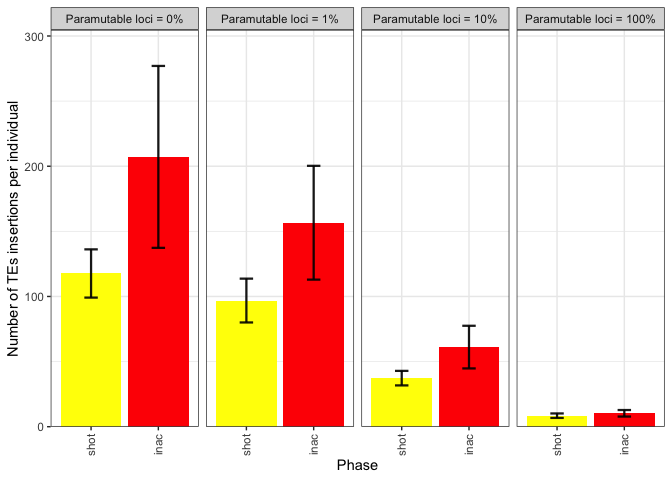
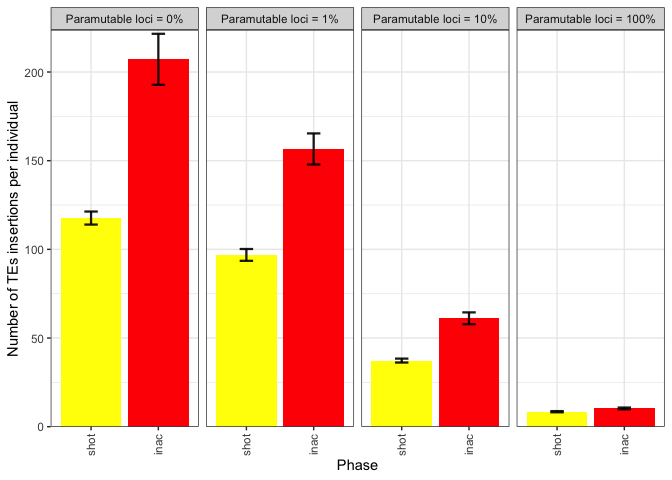
New graphs

diff --git a/Simulation/2022_08_24_Simulation_1_2_Phases.md b/Simulation/2022_08_24_Simulation_1_2_Phases.md
@@ -98,16 +98,35 @@ while (x<nrow(df1)) {
 
 #Summary statistics
 df2<-select (df2,-c(28))
-df_cli<-df2 %>% 
-  group_by(sampleid, phase) %>%
-  summarize(av_fwcli = mean(fwcli), sd_fwcli = sd(fwcli), av_cli = mean(avcli), sd_cli = sd(avcli), cv_cli_percent = sd(avcli)/mean(avcli), av_tes = mean(avtes), sd_tes = sd(avtes), cv_tes_percent = sd(avtes)/mean(avtes))
 
-g <- ggplot(df_cli, aes(x=phase, y=av_fwcli, fill = phase)) + 
+df_count <- df2 %>%
+  count(sampleid, phase)
+
+df_summary <- df2 %>% 
+  group_by(sampleid, phase) %>%
+  summarize(av_fwcli = mean(fwcli), sd_fwcli = sd(fwcli),
+            av_cli = mean(avcli), sd_cli = sd(avcli), cv_cli_percent = sd(avcli)/mean(avcli),
+            av_tes = mean(avtes), sd_tes = sd(avtes), cv_tes_percent = sd(avtes)/mean(avtes),
+            av_par = mean(avpar), sd_par = sd(avpar),
+            av_fwpar_yespi = mean(fwpar_yespi), sd_fwpar_yespi = sd(fwpar_yespi))
+
+df_summary <- cbind(df_count$n, df_summary)
+colnames(df_summary)[1] ="n"
+
+#CI 95%: z* sd/sqrt(population)
+df_summary$ci_fwcli <- qt(0.975,df=df_summary$n-1)*(df_summary$sd_fwcli/sqrt(df_summary$n))
+df_summary$ci_cli <- qt(0.975,df=df_summary$n-1)*(df_summary$sd_cli/sqrt(df_summary$n))
+df_summary$ci_tes <- qt(0.975,df=df_summary$n-1)*(df_summary$sd_tes/sqrt(df_summary$n))
+df_summary$ci_par <- qt(0.975,df=df_summary$n-1)*(df_summary$sd_par/sqrt(df_summary$n))
+df_summary$ci_fwpar_yespi <- qt(0.975,df=df_summary$n-1)*(df_summary$sd_fwpar_yespi/sqrt(df_summary$n))
+
+
+g <- ggplot(df_summary, aes(x=phase, y=av_fwcli, fill = phase)) + 
   geom_bar(stat = "identity") +
-  geom_errorbar( aes(x=phase, ymin=av_fwcli-sd_fwcli, ymax=av_fwcli+sd_fwcli), width=0.2, colour="black", alpha=0.9, size=0.8)+
+  geom_errorbar( aes(x=phase, ymin=av_fwcli-ci_fwcli, ymax=av_fwcli+ci_fwcli), width=0.2, colour="black", alpha=0.9, size=0.8)+
   ylab("Fraction of individuals with a cluster insertion")+
   xlab("Phase")+
-  scale_y_continuous(expand = expansion(mult = c(0, 0.1)))+
+  scale_y_continuous(labels = scales::percent, expand = c(0, 0))+
   scale_fill_manual(values = c("yellow", "red"))+
   theme(legend.position="none", axis.text.x = element_text(angle = 90, vjust = 0.5, hjust=1))+
   facet_wrap(~sampleid, ncol=4, labeller = labeller(sampleid = 
@@ -122,12 +141,12 @@ plot(g)
 ![](2022_08_24_Simulation_1_2_Phases_files/figure-gfm/unnamed-chunk-3-1.png)<!-- -->
 
 ``` r
-g_2 <- ggplot(df_cli, aes(x=phase, y=av_cli, fill = phase)) + 
+g_2 <- ggplot(df_summary, aes(x=phase, y=av_cli, fill = phase)) + 
   geom_bar(stat = "identity") +
-  geom_errorbar( aes(x=phase, ymin=av_cli-sd_cli, ymax=av_cli+sd_cli), width=0.2, colour="black", alpha=0.9, size=0.8)+
+  geom_errorbar( aes(x=phase, ymin=av_cli-ci_cli, ymax=av_cli+ci_cli), width=0.2, colour="black", alpha=0.9, size=0.8)+
   ylab("Number of cluster insertions per individual")+
   xlab("Phase")+
-  scale_y_continuous(expand = expansion(mult = c(0, 0.1)))+
+  scale_y_continuous(expand = c(0, 0))+
   scale_fill_manual(values = c("yellow", "red"))+
   theme(legend.position="none", axis.text.x = element_text(angle = 90, vjust = 0.5, hjust=1))+
   facet_wrap(~sampleid, ncol=4, labeller = labeller(sampleid = 
@@ -142,7 +161,7 @@ plot(g_2)
 ![](2022_08_24_Simulation_1_2_Phases_files/figure-gfm/unnamed-chunk-3-2.png)<!-- -->
 
 ``` r
-g_2_2 <- ggplot(df_cli, aes(x=sampleid, y=cv_cli_percent))+
+g_2_2 <- ggplot(df_summary, aes(x=sampleid, y=cv_cli_percent))+
   geom_point(aes(colour = phase))+
   xlab("Percent of paramutable loci")+
   ylab("Coefficient of variation cluster insertions per individual")+
@@ -155,12 +174,12 @@ plot(g_2_2)
 ![](2022_08_24_Simulation_1_2_Phases_files/figure-gfm/unnamed-chunk-3-3.png)<!-- -->
 
 ``` r
-g_3 <- ggplot(df_cli, aes(x=phase, y=av_tes, fill = phase)) + 
+g_3 <- ggplot(df_summary, aes(x=phase, y=av_tes, fill = phase)) + 
   geom_bar(stat = "identity") +
-  geom_errorbar( aes(x=phase, ymin=av_tes-sd_tes, ymax=av_tes+sd_tes), width=0.2, colour="black", alpha=0.9, size=0.8)+
+  geom_errorbar( aes(x=phase, ymin=av_tes-ci_tes, ymax=av_tes+ci_tes), width=0.2, colour="black", alpha=0.9, size=0.8)+
   ylab("Number of TEs insertions per individual")+
   xlab("Phase")+
-  scale_y_continuous(expand = expansion(mult = c(0, 0.1)))+
+  scale_y_continuous(expand = expansion(mult = c(0, 0.01)))+
   scale_fill_manual(values = c("yellow", "red"))+
   theme(legend.position="none", axis.text.x = element_text(angle = 90, vjust = 0.5, hjust=1))+
   facet_wrap(~sampleid, ncol=4, labeller = labeller(sampleid = 
@@ -175,7 +194,7 @@ plot(g_3)
 ![](2022_08_24_Simulation_1_2_Phases_files/figure-gfm/unnamed-chunk-3-4.png)<!-- -->
 
 ``` r
-g_3_2 <- ggplot(df_cli, aes(x=sampleid, y=cv_tes_percent))+
+g_3_2 <- ggplot(df_summary, aes(x=sampleid, y=cv_tes_percent))+
   geom_point(aes(colour = phase))+
   xlab("Percent of paramutable loci")+
   ylab("Coefficient of variation TEs insertions per individual")+
@@ -186,6 +205,46 @@ plot(g_3_2)
 ```
 
 ![](2022_08_24_Simulation_1_2_Phases_files/figure-gfm/unnamed-chunk-3-5.png)<!-- -->
+
+``` r
+g_4 <- ggplot(df_summary, aes(x=phase, y=av_par, fill = phase)) + 
+  geom_bar(stat = "identity") +
+  geom_errorbar( aes(x=phase, ymin=av_par-ci_par, ymax=av_par+ci_par), width=0.2, colour="black", alpha=0.9, size=0.8)+
+  ylab("Number of TE insertions in paramutable loci")+
+  xlab("Phase")+
+  scale_y_continuous(expand = expansion(mult = c(0, 0.1)))+
+  scale_fill_manual(values = c("yellow", "red"))+
+  theme(legend.position="none", axis.text.x = element_text(angle = 90, vjust = 0.5, hjust=1))+
+  facet_wrap(~sampleid, ncol=4, labeller = labeller(sampleid = 
+                                                      c("p0" = "Paramutable loci = 0%",
+                                                        "p1" = "Paramutable loci = 1%",
+                                                        "p10" = "Paramutable loci = 10%",
+                                                        "p100" = "Paramutable loci = 100%")))
+
+plot(g_4)
+```
+
+![](2022_08_24_Simulation_1_2_Phases_files/figure-gfm/unnamed-chunk-3-6.png)<!-- -->
+
+``` r
+g_5 <- ggplot(df_summary, aes(x=phase, y=av_fwpar_yespi, fill = phase)) + 
+  geom_bar(stat = "identity") +
+  geom_errorbar( aes(x=phase, ymin=av_fwpar_yespi-ci_fwpar_yespi, ymax=av_fwpar_yespi+ci_fwpar_yespi), width=0.2, colour="black", alpha=0.9, size=0.8)+
+  ylab("Fraction of individuals with an insertion in a paramutable site")+
+  xlab("Phase")+
+  scale_y_continuous(labels = scales::percent, expand = c(0, 0))+
+  scale_fill_manual(values = c("yellow", "red"))+
+  theme(legend.position="none", axis.text.x = element_text(angle = 90, vjust = 0.5, hjust=1))+
+  facet_wrap(~sampleid, ncol=4, labeller = labeller(sampleid = 
+                                                      c("p0" = "Paramutable loci = 0% (Trap model)",
+                                                        "p1" = "Paramutable loci = 1%",
+                                                        "p10" = "Paramutable loci = 10%",
+                                                        "p100" = "Paramutable loci = 100%")))
+
+plot(g_5)
+```
+
+![](2022_08_24_Simulation_1_2_Phases_files/figure-gfm/unnamed-chunk-3-7.png)<!-- -->
 
 ## Conclusions
 
